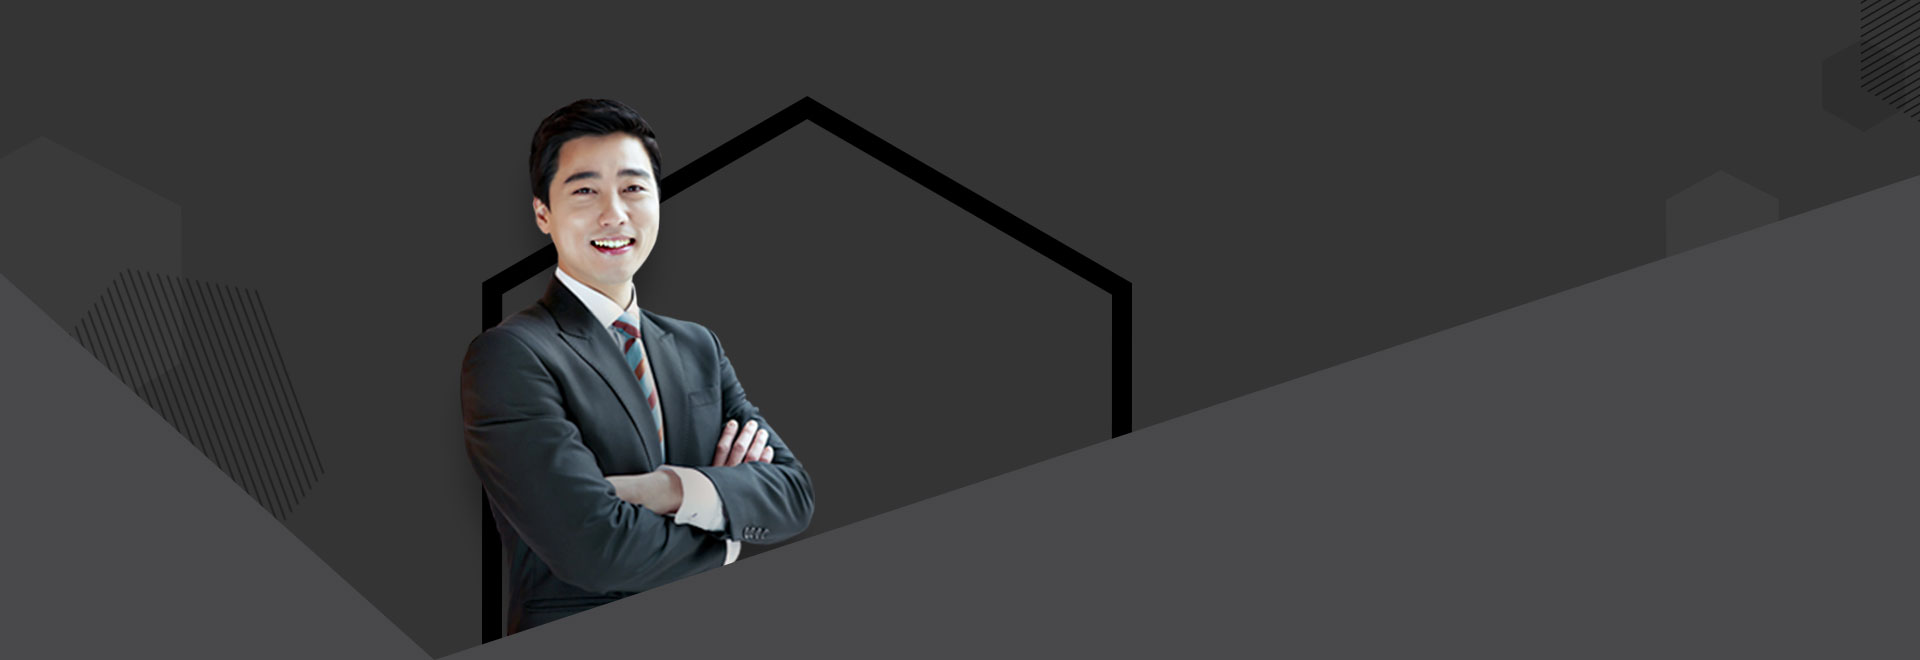
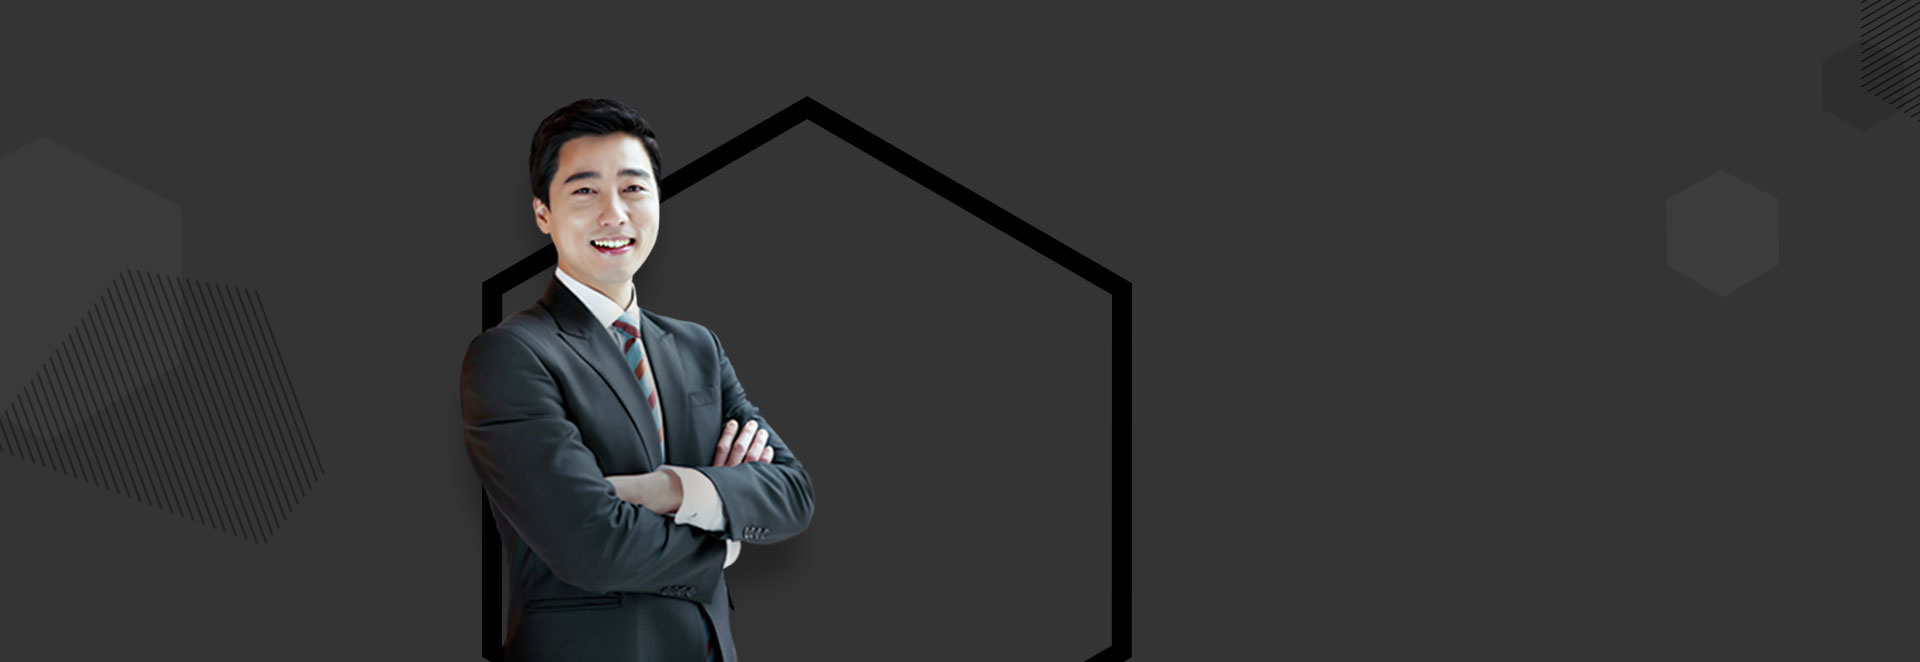
메거진 상단 슬라이드 수정

diff --git a/src/manager/index.html b/src/manager/index.html
@@ -7,45 +7,38 @@
 	<div class="wrapper managerList">
 	<!-- @@include ../_template/menu.html -->
 		<div class="container">	
-			<div class="wrap">
-				<div class="subTop">
-					<h2 class="pageTit">specialist</h2>
-					<p class="subTit"><b>150</b>명의 커먼  공간,전문가를 소개합니다</p>
+			<div class="subTop">
+				<div class="wrap">
+					<div class="topTit">
+						<h2 class="pageTit">specialist</h2>
+						<p class="subTit"><b>150</b>명의 커먼  공간,전문가를 소개합니다</p>
+					</div>
 				</div>
+				<div class="managerPager"><span id="sliderPrev"></span><span id="sliderNext"></span></div>
+				<ul id="managerSlider">
+					<li><img src="/images/manager01.jpg" alt=""></li>
+					<li><img src="/images/manager01.jpg" alt=""></li>
+					<li><img src="/images/manager01.jpg" alt=""></li>
+				</ul>
+				<div class="slideCon">
+					<a href="" id="slideCon00">
+						<p class="italicNum">01</p>
+						<p class="subTxt">부동산 투자의 달인</p>
+						<h3 class="name">김석훈</h3>
+					</a>
+					<a href="" id="slideCon01">
+						<p class="italicNum">02</p>
+						<p class="subTxt">testtesttest</p>
+						<h3 class="name">test</h3>
+					</a>
+					<a href="" id="slideCon02">
+						<p class="italicNum">03</p>
+						<p class="subTxt">aaaaaaaaaa</p>
+						<h3 class="name">wwww</h3>
+					</a>
+				</div>
+				<div class="mask"><img src="/images/bg_manager.png" alt=""></div>
 			</div>
-			<div class="managerPager"><span id="sliderPrev"></span><span id="sliderNext"></span></div>
-			<ul id="managerSlider">
-				<li>
-					<a href="">
-						<div class="slideCon" id="slideCon00">
-							<p class="italicNum">01</p>
-							<p class="subTxt">부동산 투자의 달인</p>
-							<h3 class="name">김석훈</h3>
-						</div>
-						<img src="/images/manager01.jpg" alt="">
-					</a>
-				</li>
-				<li>
-					<a href="">
-						<div class="slideCon" id="slideCon01">
-							<p class="italicNum">01</p>
-							<p class="subTxt">부동산 투자의 달인</p>
-							<h3 class="name">김석훈</h3>
-						</div>
-						<img src="/images/manager01.jpg" alt="">
-					</a>
-				</li>
-				<li>
-					<a href="">
-						<div class="slideCon" id="slideCon02">
-							<p class="italicNum">01</p>
-							<p class="subTxt">부동산 투자의 달인</p>
-							<h3 class="name">김석훈</h3>
-						</div>
-						<img src="/images/manager01.jpg" alt="">
-					</a>
-				</li>
-			</ul>
 			<div class="wrap">
 				<ul class="tabType01">
 					<li><a href="">평점순</a></li>

diff --git a/src/css/04_sub.css b/src/css/04_sub.css
@@ -79,21 +79,24 @@
 .contentCard .relateTag li a{display: inline-block;padding: 20px 35px;background: #fff;border-radius: 30px;box-shadow: 0px 3px rgba(0,0,0,0.1);font-size: 20px;font-family:'RobotoR','NotoSansR', sans-serif;color: #333;}
 
 /* manager */
+.subTop .mask{position: absolute;top: 0;left: 0;z-index: 2}
+
 .managerList{background: #48484a;}
 .managerList .topMenu{background: #fff !important;}
-.managerList .subTop{position: absolute;top: 400px;width:100%;background:none;text-align: right;z-index: 4;}
-.managerList .wrap{overflow: visible;padding: 0;}
+.managerList .topTit{position: absolute;top: 400px;width:100%;background:none;text-align: right;z-index: 4;}
+.managerList .subTop .wrap{overflow: visible;padding: 0;}
 .managerList .subTit{margin-right: 60px;}
 .managerList .subTit b{color: #977369;}
 .managerList .pageTit{height: 120px;background-position:680px 0;}
 .managerList .bx-wrapper{width: 100%;min-height: 662px;}
 .managerList .bx-wrapper li{overflow: hidden;min-height: 662px;}
 .managerList .bx-wrapper img{display: block;height: 100%;}
-.managerList .slideCon{display: none;position: absolute;top: 50%;right: 46%;margin-top: -100px;color: #fff;}
+.managerList .slideCon{position: absolute;top:0;left: 50%;width: 600px;height: 430px;margin:120px 0 0 -460px;z-index: 5}
+.managerList .slideCon a{display: none;color: #fff;padding: 90px 0 0 300px;height: 100%;text-align: left;}
 .managerList #slideCon00{display: block;}
-.managerList .slideCon .italicNum{font-size: 50px;}
-.managerList .slideCon .subTxt{margin-top: 15px;color: #aa7d71;font-family:'RobotoL','NotoSansL', sans-serif;}
-.managerList .slideCon .name{margin-top: 5px;font-family:'RobotoT','NotoSansT', sans-serif;font-size: 66px;}
+.managerList .slideCon a .italicNum{font-size: 50px;}
+.managerList .slideCon a .subTxt{margin-top: 15px;color: #aa7d71;font-family:'RobotoL','NotoSansL', sans-serif;}
+.managerList .slideCon a .name{margin-top: 5px;font-family:'RobotoT','NotoSansT', sans-serif;font-size: 66px;}
 
 .managerList .managerPager{position: relative;width: 1220px;margin:0 auto;z-index: 3}
 .managerList .managerPager a{position: absolute;display: block;width: 174px;height: 201px;background: url('../images/manager_thumb.png') no-repeat;font-size: 0;}

diff --git a/src/css/07_qna.css b/src/css/07_qna.css
@@ -3,7 +3,7 @@
 .myOpinion .opinionArea{margin-top:0;}
 
 .expert .pageTit{font-family:'RobotoL','NotoSansL', sans-serif;color: #000;font-size: 40px;background:none }
-.expert .pageTit:before, .pageTit:after{content: '';display: inline-block;width: 70px;height: 1px;background: #d9d9d9;vertical-align: middle;}
+.expert .pageTit:before{content: '';display: inline-block;width: 70px;height: 1px;background: #d9d9d9;vertical-align: middle;}
 .expert .pageTit:before{margin-right: 20px;}
 .expert .pageTit:after{margin-left: 20px;}
 

diff --git a/src/js/pages/manager/Index.js b/src/js/pages/manager/Index.js
@@ -37,8 +37,7 @@ module.exports = function() {
 			nextSelector: '#sliderNext',
   			prevSelector: '#sliderPrev',
 			onSlideAfter: function (currentSlideNumber, totalSlideQty, currentSlideHtmlObject) {
-				$('#slideCon0'+(currentSlideHtmlObject)).fadeIn();
-				$(currentSlideNumber).siblings().find('.slideCon').hide();
+				$('#slideCon0'+(currentSlideHtmlObject)).fadeIn().css('display','block').siblings().hide();
 				switch(currentSlideHtmlObject) {
 					case 0:
 						$('.bx-prev').css('background-position','0 0');
